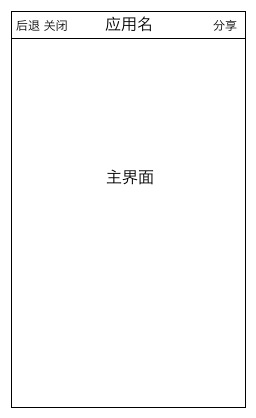
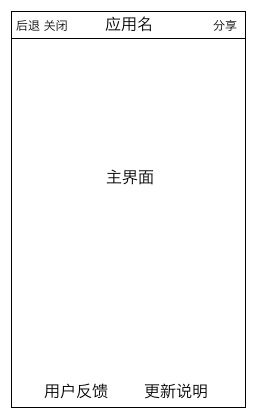
add

Changed region(s): [[0.1562, 0.9019, 0.4375, 0.9641], [0.5625, 0.9019, 0.8125, 0.9641]]

diff --git a/docs/uig.md b/docs/uig.md
@@ -12,7 +12,11 @@
 ####图形规约
 
 1. 图标：宽90像素，高90像素，以简约风格为宜。
-2. 输入控件：建议使用为移动设备优化的控件。
+2. 输入组件：建议使用为移动设备优化的组件，直观易懂。
+3. 菜单：有明确指示。
 
 ####布局
 ![](https://raw.githubusercontent.com/Ginshell/bongOpenPlatform/master/images/mainui.jpg)
+
+1. 在一个屏幕内展示页面，以减少用户的滑动次数，提高应用的用户体验。
+2. 在页面底部增加反馈方式和更新说明，形式不限，以增进用户和开发者间的交流。
